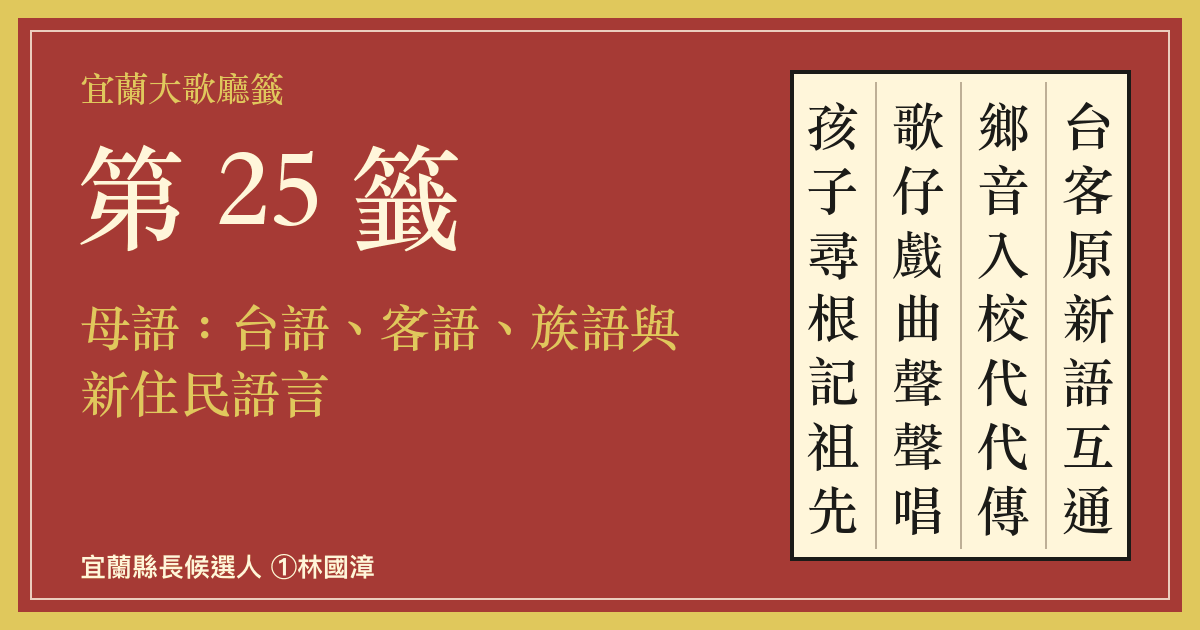
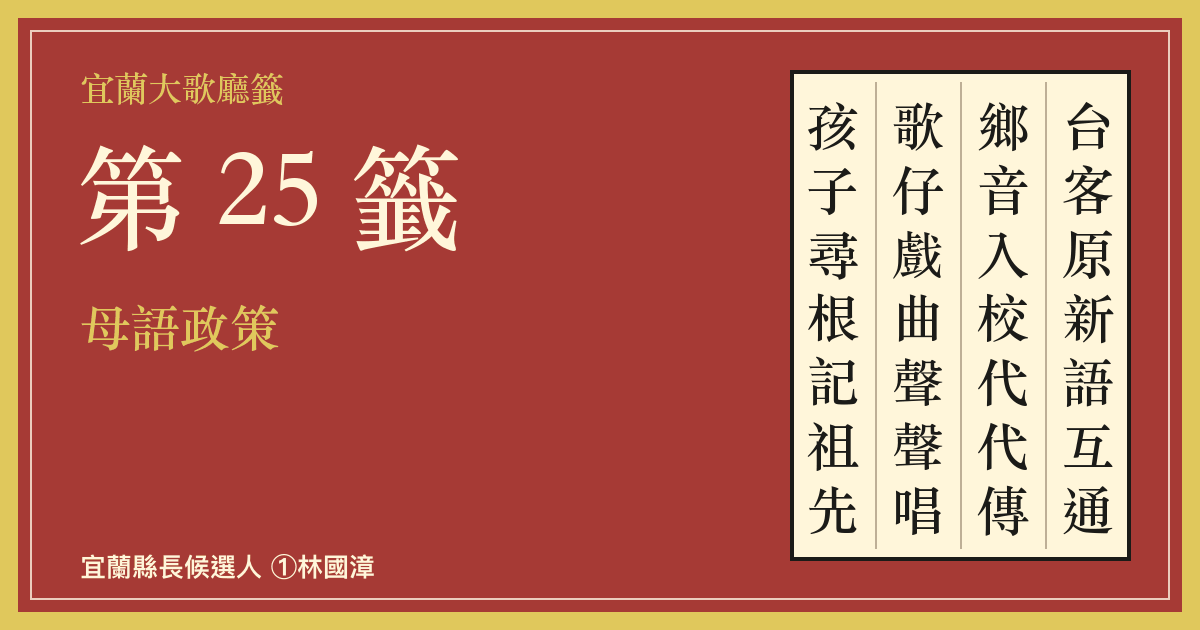
v205：母語政策標題簡化

Changed region(s): [[0.0617, 0.4825, 0.5858, 0.6635]]

diff --git a/index.html b/index.html
@@ -2174,7 +2174,7 @@ var POL=[
  s:'五大綱領：文化即生活、教育、認同、治理、產業。',
  b:["文化即生活：文化場域活化計畫，夜間開放、志工培訓與導覽，讓文化走入 12 鄉鎮。", "文化即教育：文化根系扎根計畫：推動歌仔戲入校與藝術人才培育；以丸山遺址為核心，爭取設立東部考古研究中心。", "文化即認同：重啟文化資產保衛戰（全面盤點、保存、活化）；節慶文化保存計畫，研議「一日文化假」。", "文化即治理：辦理城市文化論壇、制定「宜蘭文化 30 年政策白皮書」，擴大公民參與；重整中興文創園區。", "文化即產業：爭取台灣設計展在宜蘭舉辦；推動「蘭陽國際底片影展暨電影節」；串聯蘭陽博物館與 60 多家博物館。"],
  tw:'all',lt:['yuanshan','wujie','toucheng'],rd:[],pl:['wanshan','zhongxing','wushi'],src:[]},
-{id:'C10',c:'tour',t:'母語：台語、客語、族語與新住民語言',d:"本土語言",
+{id:'C10',c:'tour',t:'母語政策',d:"本土語言",
  s:'台語、客語、原住民族語與新住民語言，在學校與生活裡一起被重視、被傳承。',
  b:["學校教育：建構「宜蘭學」與縣本課程 2.0，把台語等本土語言融入教材；培育部落師資，傳承族語與祭儀。", "台語、歌仔戲：推動「傳統戲曲入校」，尤其是歌仔戲，讓宜蘭孩子聽得懂歌仔戲，也在過程中更加熟悉在地台語。", "客語：詔安腔復興，和雲林、彰化跨縣市結盟，把詔安腔老師請進宜蘭校園。", "客語：「尋找最後的詔安音」，為長輩留下語音紀錄。", "客語：客語認證獎勵提高到 2,000 元。", "客語：推動數位族譜，讓游、呂、廖等「隱形客家」後代尋根。", "原住民族語：「原住民族語保母獎助計畫」結合原鄉托育合作社，另外支持原住民文化學校的祭儀教育。", "新住民語言：新住民子女語言銜接與課後扶助；新二代「語言文化溯根計畫」。"],
  tw:'all',rd:[],pl:[],src:[]},
@@ -3994,7 +3994,7 @@ function drawWallCard(){
   return cv;
 }
 function openWallCard(){openImg(drawWallCard(),'宜蘭大歌廳排行榜｜宜蘭大歌廳①次看全部',(SHARE_BASE?SHARE_BASE+SQ:location.href.split('#')[0]),'宜蘭大歌廳-排行榜.png')}
-var BUILD='11/6 第 204 版';
+var BUILD='11/7 第 205 版';
 $('#mego').onclick=function(){albClose();openPersona()};
 $('#mecard').onclick=function(){albClose();openCard()};
 $('#mecl').onclick=function(){albClose();PS.jobs={};PS.towns={};panel()};

diff --git a/s/p-C10/index.html b/s/p-C10/index.html
@@ -1,12 +1,12 @@
 <!doctype html>
 <html lang="zh-Hant"><head><meta charset="utf-8"><meta name="viewport" content="width=device-width,initial-scale=1">
-<title>母語：台語、客語、族語與新住民語言｜宜蘭大歌廳①次看全部</title>
+<title>母語政策｜宜蘭大歌廳①次看全部</title>
 <meta name="description" content="台語、客語、原住民族語與新住民語言，在學校與生活裡一起被重視、被傳承。">
 <meta property="og:type" content="website"><meta property="og:site_name" content="宜蘭大歌廳①次看全部">
-<meta property="og:title" content="母語：台語、客語、族語與新住民語言｜宜蘭大歌廳①次看全部"><meta property="og:description" content="台語、客語、原住民族語與新住民語言，在學校與生活裡一起被重視、被傳承。">
+<meta property="og:title" content="母語政策｜宜蘭大歌廳①次看全部"><meta property="og:description" content="台語、客語、原住民族語與新住民語言，在學校與生活裡一起被重視、被傳承。">
 <meta property="og:url" content="https://hanyingyilan.github.io/yilan-policy-map/s/p-C10/"><meta property="og:image" content="https://hanyingyilan.github.io/yilan-policy-map/og.png?v=169">
 <meta property="og:image:width" content="1200"><meta property="og:image:height" content="630">
 <meta name="twitter:card" content="summary_large_image"><meta name="twitter:image" content="https://hanyingyilan.github.io/yilan-policy-map/og.png?v=169">
 <link rel="canonical" href="https://hanyingyilan.github.io/yilan-policy-map/s/p-C10/">
 <meta http-equiv="refresh" content="0;url=../../#p-C10">
-</head><body style="font-family:sans-serif;background:#0A1D38;color:#fff;padding:24px"><p><a style="color:#C8F56B" href="../../#p-C10">前往宜蘭大歌廳①次看全部：母語：台語、客語、族語與新住民語言</a></p><script>location.replace('../../#p-C10')</script></body></html>
+</head><body style="font-family:sans-serif;background:#0A1D38;color:#fff;padding:24px"><p><a style="color:#C8F56B" href="../../#p-C10">前往宜蘭大歌廳①次看全部：母語政策</a></p><script>location.replace('../../#p-C10')</script></body></html>

diff --git a/s/f-C10/index.html b/s/f-C10/index.html
@@ -1,9 +1,9 @@
 <!doctype html>
 <html lang="zh-Hant"><head><meta charset="utf-8"><meta name="viewport" content="width=device-width,initial-scale=1">
 <title>我抽到第 25 籤｜宜蘭大歌廳①次看全部</title>
-<meta name="description" content="台客原新語互通，鄉音入校代代傳。歌仔戲曲聲聲唱，孩子尋根記祖先。（母語：台語、客語、族語與新住民語言）">
+<meta name="description" content="台客原新語互通，鄉音入校代代傳。歌仔戲曲聲聲唱，孩子尋根記祖先。（母語政策）">
 <meta property="og:type" content="website"><meta property="og:site_name" content="宜蘭大歌廳①次看全部">
-<meta property="og:title" content="我抽到第 25 籤｜宜蘭大歌廳①次看全部"><meta property="og:description" content="台客原新語互通，鄉音入校代代傳。歌仔戲曲聲聲唱，孩子尋根記祖先。（母語：台語、客語、族語與新住民語言）">
+<meta property="og:title" content="我抽到第 25 籤｜宜蘭大歌廳①次看全部"><meta property="og:description" content="台客原新語互通，鄉音入校代代傳。歌仔戲曲聲聲唱，孩子尋根記祖先。（母語政策）">
 <meta property="og:url" content="https://hanyingyilan.github.io/yilan-policy-map/s/f-C10/"><meta property="og:image" content="https://hanyingyilan.github.io/yilan-policy-map/og/f-C10.png?v=169">
 <meta property="og:image:width" content="1200"><meta property="og:image:height" content="630">
 <meta name="twitter:card" content="summary_large_image"><meta name="twitter:image" content="https://hanyingyilan.github.io/yilan-policy-map/og/f-C10.png?v=169">
